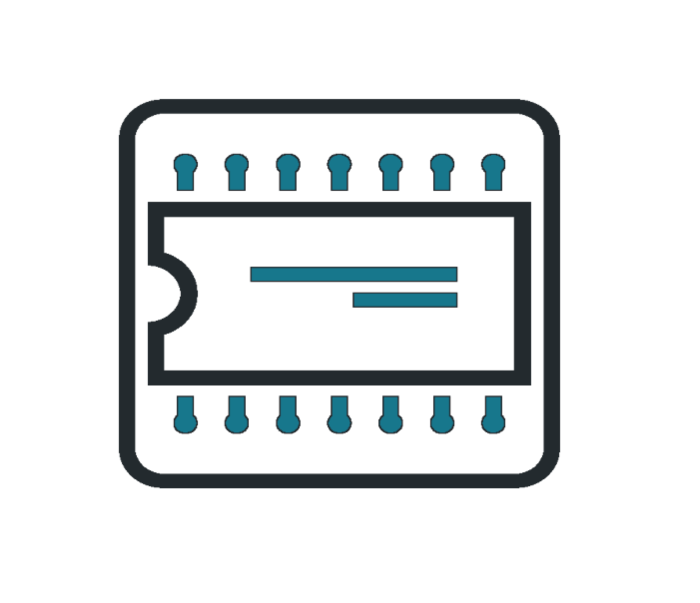
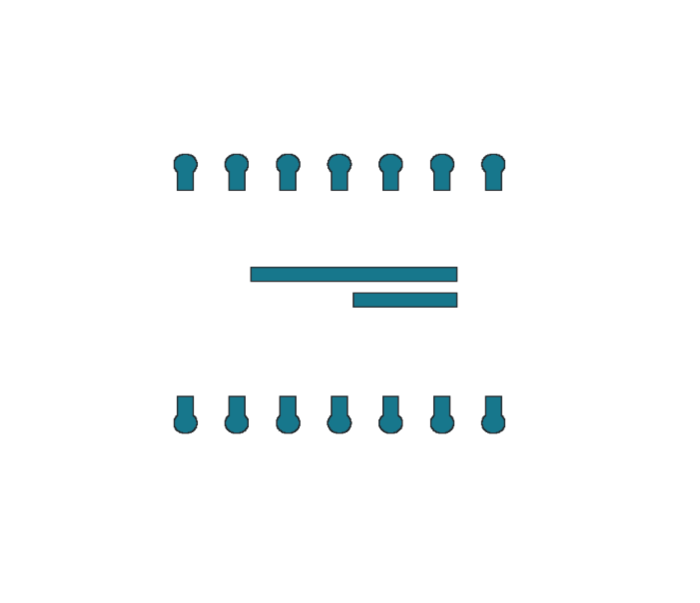
update service page

Changed region(s): [[0.15, 0.1493, 0.81, 0.8358]]

diff --git a/src/components/ServiceItem.vue b/src/components/ServiceItem.vue
@@ -1,13 +1,17 @@
 <template>
-    <div class="col-xxl-3 m-1 m-xl-2 card" v-lazy-container="{ selector: 'img' }">
-      <img class="d-none d-lg-block" 
-        :data-src="require(`../assets/images/${service.icon}`)"
-        :alt="service.name"
-        @contextmenu.prevent="handler"
-      />
-      <h3>{{ service.name }}</h3>
-      <div class="categories">
-        <span v-for="category in service.categories" :key="category" class="badge">{{ category }}</span>
+    <div class="col-xxl-3 m-1 m-xl-2 custom-card dark blue" v-lazy-container="{ selector: 'img' }">
+      <div class="card-front">
+        <img :data-src="require(`../assets/images/${service.icon}`)"
+          :alt="service.name"
+          @contextmenu.prevent="handler"
+        />
+        <h3>{{ service.name }}</h3>
+        <div class="categories">
+          <span v-for="category in service.categories" :key="category" class="badge">{{ category }}</span>
+        </div>
+      </div>
+      <div class="card-back p-5">
+        <h3 class="description">{{ service.description }}</h3>
       </div>
     </div>
 </template>
@@ -23,34 +27,54 @@ export default {
 
 <style scoped lang="scss">
 @import '../assets/scss/border.scss';
+@import '../assets/scss/postcard.scss';
 
 $bs-info-bg: rgba(31, 154, 192);
-$dark-bg:  rgba(var(--bs-dark-rgb), 0.7);
-.card {
-  // background-image: linear-gradient(190deg, $gray-info-bg, $dark-bg 40%);
-  background-color: white;
+$dark-bg:  rgb(44, 78, 88, 0.95);
+.custom-card {
+  height: auto!important;
   border-radius: 10px;
+  border: 5px solid rgba(255,255,255, 0.9);
   padding: 30px;
   max-width: 500px;
   transition: 1s;
-  @include magic-border(2px, $bs-info-bg, 0.2s, -1);
+  -webkit-box-reflect:below 0px linear-gradient(transparent, transparent, #0004);
+  color: #fff;
+  transform-style: preserve-3d;
+  perspective: 600px;
 
+  &:hover .card-front {
+    transform: rotateX(-180deg);
+  }
 
-  @media screen and (min-width: 1570px) {
-    width: 330px;
-    padding: 50px;
+  &:hover .card-back {
+    transform: rotateX(0deg);
   }
 }
 
+h3 {
+  text-transform: none!important;
+}
+
+.card-front {
+  backface-visibility: hidden;
+  transform: rotateX(0deg);
+  transition: .5s;
+}
+
+.card-back {
+  position: absolute;
+  top: 0px;
+  left: 0px;
+  background: transparent;
+  backface-visibility: hidden;
+  transform: rotateX(180deg);
+    transition: .5s;
+}
 
 img {
   padding: 10px;
   width: 100px;
-
-  @media screen and (min-width: 1570px) {
-    padding: 10px;
-    width:150px;
-  }
 }
 
 .categories {
@@ -62,6 +86,27 @@ img {
     margin-top: 7px;
     background-color: $bs-info-bg;
   }
+}
+
+h3.description {
+  font-size: 1.5rem;
+}
+
+@media screen and (min-width: 1570px) {
+  .custom-card {
+    width: 330px;
+    padding: 50px;
+  }
+
+  img {
+    padding: 10px;
+    width:150px;
+  }
+
+  h3.description {
+    font-size: 2rem;
+  }
+
 }
 
 </style>

diff --git a/src/views/Services.vue b/src/views/Services.vue
@@ -2,7 +2,7 @@
   <div :id="$options.name" class="col-10">
     <h1>My {{$options.name}}</h1>
     <div class="row justify-content-center mb-2 mb-xxl-5">
-      <ServiceItem v-for="(service, index) in services" :key="index" :service="service" />
+      <ServiceItem v-for="(service, index) in services" :key="index" :service="service" id="service-item"/>
     </div>
     <div class="text-center my-4">
       <router-link :to="{ name: 'Contact' }">
@@ -45,5 +45,13 @@ h1 {
   margin-bottom: 20px;
   margin-top: 30px;
   }
+}
+
+.row:hover #service-item {
+  opacity: 0.6;
+}
+
+.row #service-item:hover  {
+  opacity: 1;
 }
 </style>
